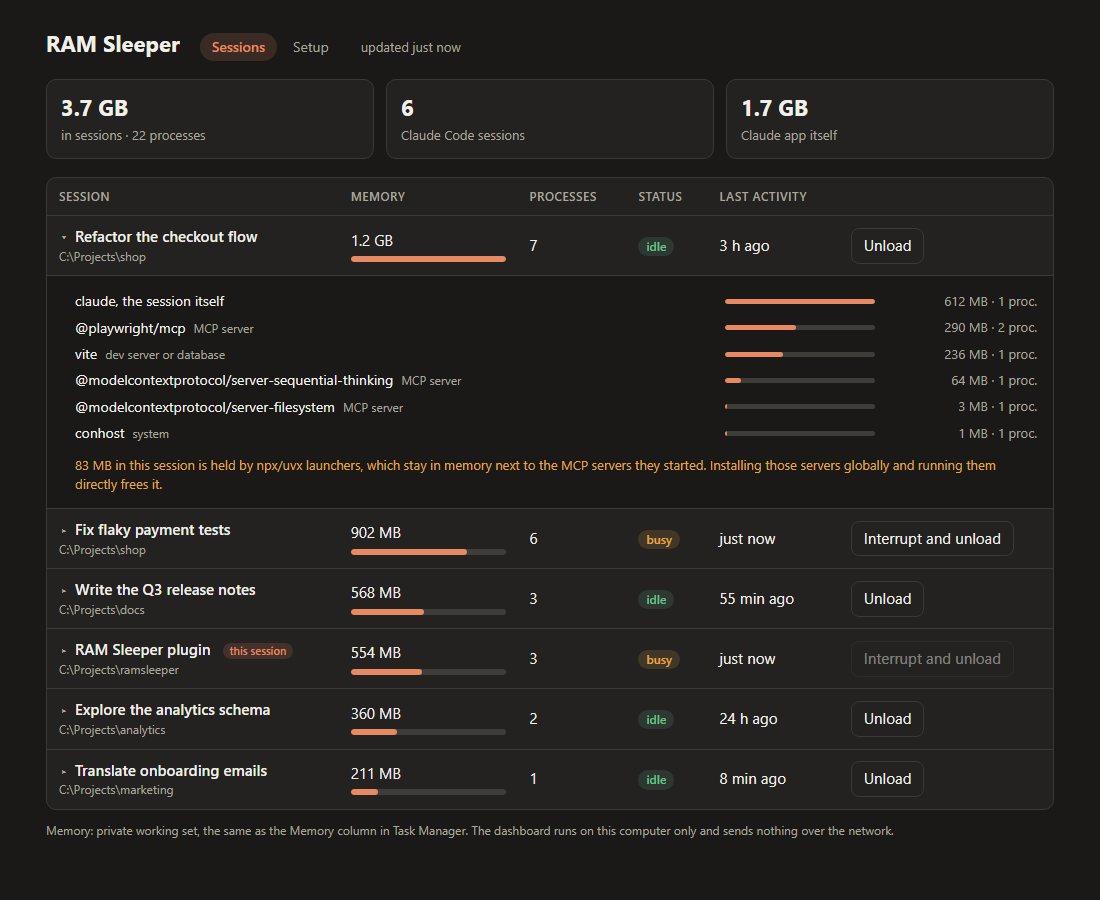
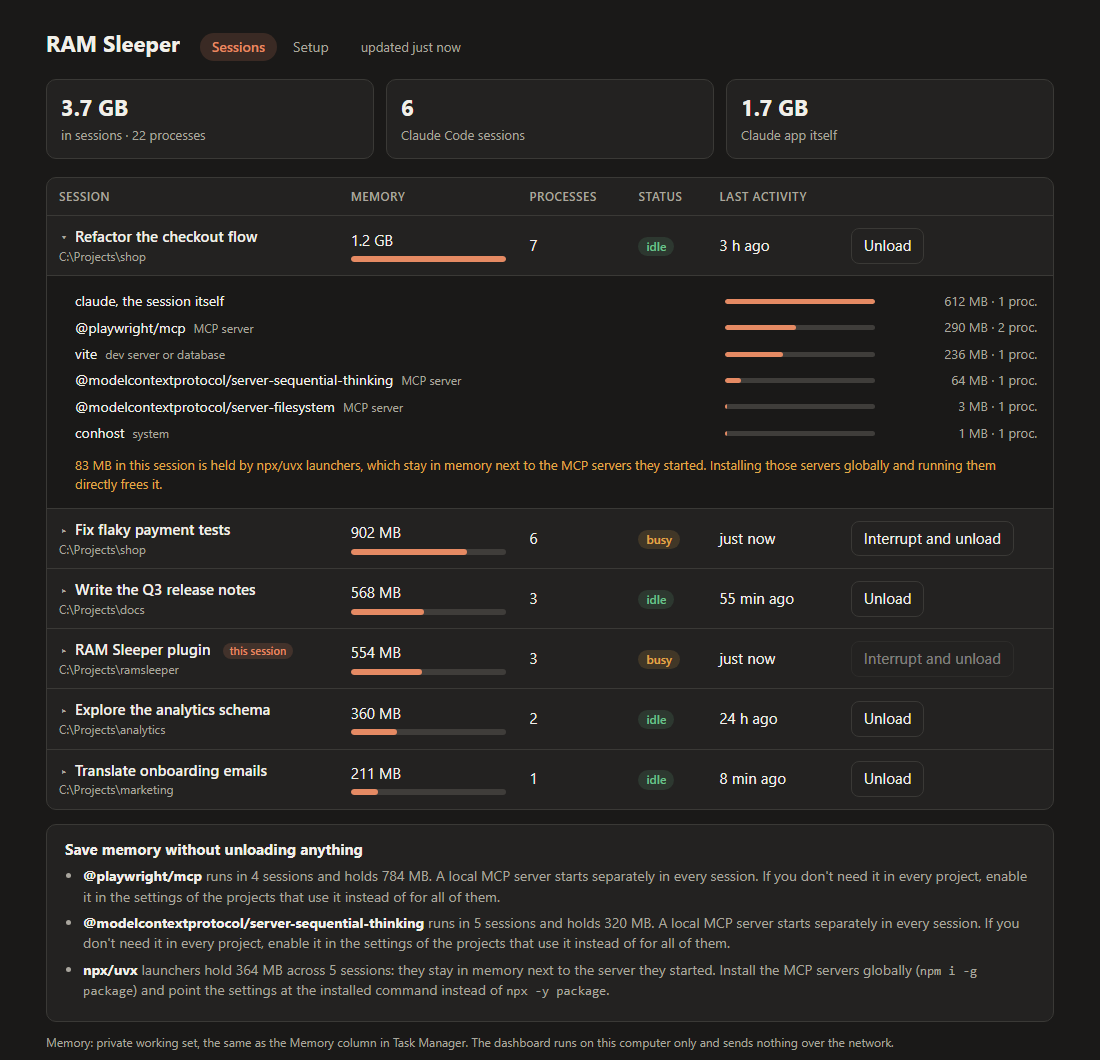
Memory-saving tips; fix review findings in process naming and the tray
- Tips: the script reports an MCP server that runs in three or more
  sessions and memory held by npx/uvx launchers across sessions. The
  dashboard, tray, menu bar, list output and skill show them.
- Package names are no longer taken from pnpm's 'name@version\node_modules'
  or from addresses like git@github.com/owner; node_modules packages and
  executables named *mcp* are recognised.
- A group is an MCP server only by package or executable name, not because
  a folder in its path contains 'mcp'.
- The tray disposes the controls it replaces instead of leaking their
  window handles.

diff --git a/skills/ramsleeper/scripts/dashboard.html b/skills/ramsleeper/scripts/dashboard.html
@@ -44,6 +44,11 @@
   .pnum { color: var(--muted); font-size: 13px; text-align: right; font-variant-numeric: tabular-nums; white-space: nowrap; }
   .hint { margin: 10px 0 0; font-size: 13px; color: var(--warn); }
   @media (max-width: 720px) { .part { grid-template-columns: minmax(0, 1fr) auto; } .pbar { display: none; } }
+  .tips { margin-top: 14px; padding: 14px 18px; }
+  .tips h2 { font-size: 15px; margin: 0 0 6px; }
+  .tips ul { margin: 0; padding-left: 18px; color: var(--muted); font-size: 14px; }
+  .tips li { margin: 6px 0; }
+  .tips b { color: var(--text); }
   .you { display: inline-block; margin-left: 6px; padding: 0 7px; border-radius: 99px; font-size: 11px; font-weight: 600; background: var(--accent-soft); color: var(--accent); }
   .ram { min-width: 150px; }
   .bar { height: 6px; background: var(--bar); border-radius: 3px; margin-top: 5px; overflow: hidden; }
@@ -125,6 +130,7 @@
   <div id="view-sessions">
     <section class="stats" id="stats"></section>
     <section class="card" id="list"><div class="empty" data-i18n="loading"></div></section>
+    <section class="card tips" id="tips" hidden></section>
     <p class="foot" id="metric"></p>
   </div>
   <div id="view-setup" hidden>
@@ -190,6 +196,9 @@ Object.assign(T, RU ? {
   trayOff: 'Не запущен. Клик по значку открывает список сессий с кнопками выгрузки.', trayStart: 'Запустить',
   autoTitle: 'Запуск при входе в Windows', autoOn: 'Включён: значок появится сам после перезагрузки.', autoOff: 'Выключен.',
   autoEnable: 'Включить', autoDisable: 'Выключить',
+  tipsTitle: 'Как сэкономить память, ничего не выгружая',
+  adviceMcp: (label, n, m) => `<b>${esc(label)}</b> запущен в ${n} сессиях и занимает ${m}. Локальный MCP-сервер стартует отдельно в каждой сессии. Если он нужен не во всех проектах, подключите его в настройках нужных проектов, а не для всех сразу.`,
+  adviceLaunchers: (n, m) => `Запускалки <b>npx/uvx</b> держат ${m} в ${n} сессиях: они остаются в памяти рядом с сервером, который запустили. Установите MCP-серверы глобально (<code>npm i -g пакет</code>) и укажите в настройках прямой запуск вместо <code>npx -y пакет</code>.`,
   inside: 'Показать, из чего состоит', self: 'claude — сама сессия', procShort: 'проц.',
   kinds: { mcp: 'MCP-сервер', dev: 'dev-сервер или база', shell: 'оболочка', system: 'служебное' },
   launcherHint: m => `${m} в этой сессии держат запускалки npx/uvx: они остаются в памяти рядом с MCP-серверами. Если установить серверы глобально и запускать напрямую, эта память освободится.`,
@@ -222,6 +231,9 @@ Object.assign(T, RU ? {
   trayOff: 'Not running. Clicking the icon opens the session list with Unload buttons.', trayStart: 'Start',
   autoTitle: 'Start at Windows sign-in', autoOn: 'On: the icon comes back by itself after a restart.', autoOff: 'Off.',
   autoEnable: 'Turn on', autoDisable: 'Turn off',
+  tipsTitle: 'Save memory without unloading anything',
+  adviceMcp: (label, n, m) => `<b>${esc(label)}</b> runs in ${n} sessions and holds ${m}. A local MCP server starts separately in every session. If you don't need it in every project, enable it in the settings of the projects that use it instead of for all of them.`,
+  adviceLaunchers: (n, m) => `<b>npx/uvx</b> launchers hold ${m} across ${n} sessions: they stay in memory next to the server they started. Install the MCP servers globally (<code>npm i -g package</code>) and point the settings at the installed command instead of <code>npx -y package</code>.`,
   inside: 'Show what it is made of', self: 'claude, the session itself', procShort: 'proc.',
   kinds: { mcp: 'MCP server', dev: 'dev server or database', shell: 'shell', system: 'system' },
   launcherHint: m => `${m} in this session is held by npx/uvx launchers, which stay in memory next to the MCP servers they started. Installing those servers globally and running them directly frees it.`,
@@ -302,7 +314,7 @@ function render() {
     ...(app ? [[mb(app.memBytes), T.app]] : []),
   ].map(([b, s]) => `<div class="stat"><b>${esc(b)}</b><span>${esc(s)}</span></div>`).join('');
   $('metric').textContent = T.metric(memMetric);
-  if (!sessions.length) { $('list').innerHTML = `<div class="empty">${T.none}</div>`; return; }
+  if (!sessions.length) { $('list').innerHTML = `<div class="empty">${T.none}</div>`; renderTips(); return; }
   const max = Math.max(...sessions.map(s => s.memBytes));
   $('list').innerHTML = `<table>
     <thead><tr><th>${T.session}</th><th>${T.ram}</th><th class="hide-sm">${T.procs}</th><th>${T.status}</th><th class="hide-sm">${T.last}</th><th></th></tr></thead>
@@ -318,7 +330,17 @@ function render() {
         <td><button data-pid="${s.pid}" ${why ? `disabled title="${esc(why)}"` : ''}>${s.status === 'busy' ? T.interruptBtn : T.unload}</button></td>
       </tr>${isOpen ? detailRow(s) : ''}`;
     }).join('')}</tbody></table>`;
+  renderTips();
   tick();
+}
+
+// Ways to save memory without unloading anything, worked out by the script.
+function renderTips() {
+  const tips = (data.advice || []).map(a =>
+    a.type === 'mcp-in-many-sessions' ? T.adviceMcp(a.label, a.sessions, mb(a.memBytes))
+    : a.type === 'launchers' ? T.adviceLaunchers(a.sessions, mb(a.memBytes)) : null).filter(Boolean);
+  $('tips').hidden = !tips.length;
+  $('tips').innerHTML = tips.length ? `<h2>${T.tipsTitle}</h2><ul>${tips.map(t => `<li>${t}</li>`).join('')}</ul>` : '';
 }
 
 // What a session's memory is made of: the session process itself, then each

diff --git a/skills/ramsleeper/SKILL.md b/skills/ramsleeper/SKILL.md
@@ -31,6 +31,8 @@ If `node` is not found, tell the user the plugin needs Node.js 18 or newer on PA
 
 When the user asks what is inside a session, what its processes are, or why one session is so large, run `list --json` and read that session's `ownMemBytes` (the `claude` process itself) and `groups`. Each group is one thing the session started, with its launcher, shells and console counted together: `label` (usually the MCP server's package name), `kind` (`mcp`, `dev`, `shell`, `system` or `other`), `memBytes`, `processCount`, and `launcherBytes`. Show them as a short table, largest first.
 
+The top-level `advice` array in the same JSON lists savings that need no unloading, and `list` prints them under "Tips". `mcp-in-many-sessions` means one MCP server runs in three or more sessions: a local (stdio) MCP server starts separately in every session, so if the user needs it in only some projects, suggest enabling it in those projects' settings instead of for all projects. `launchers` is the total held by launchers across sessions. Mention these when you show the list, in a sentence or two, and offer to explain the change. Don't suggest sharing one server between sessions over HTTP unless the user asks: not every server supports it, and a shared server shares its state, which for a browser server means the sessions get in each other's way.
+
 `launcherBytes` is memory held by `npx` or `uvx` launchers that stay running next to the MCP server they started, about 60 MB each for npx. If a session's total `launcherBytes` is 50 MB or more, say so and explain the fix: install those MCP servers globally (`npm i -g <package>`) and point the MCP config at the installed command instead of `npx -y <package>`. That is a change to the user's MCP configuration; describe it, and make it only if they ask.
 
 ## Dashboard

diff --git a/README.md b/README.md
@@ -40,6 +40,15 @@ Click a session in the dashboard or the tray to see where its memory goes: the `
 
 ![Dashboard with one session expanded into the claude process, two MCP servers, and a Vite dev server, with a note about npx launchers](docs/images/breakdown-dark.png)
 
+### Tips that save memory without unloading
+
+Under the list, RAM Sleeper points out two common sources of waste:
+
+- **An MCP server that runs in many sessions.** A local (stdio) MCP server starts separately in every session, so a server enabled for all projects costs its memory once per open session. If you need it in only some projects, enable it in those projects' settings.
+- **`npx` and `uvx` launchers.** `npx -y package` leaves the launcher running next to the server it started. Installing the server globally (`npm i -g package`) and pointing the MCP settings at the installed command removes that copy.
+
+One server can also be shared by all sessions if it supports HTTP transport and you run it once as a local HTTP server. RAM Sleeper does not suggest this by itself: not every server supports it, and a shared server shares its state. For a browser server such as Playwright, that means the sessions would use the same browser.
+
 ### The confirmation
 
 Every unload is confirmed first. The confirmation lists every process that will stop. It highlights anything that isn't an MCP server or a shell, such as a dev server, because that stops too:
